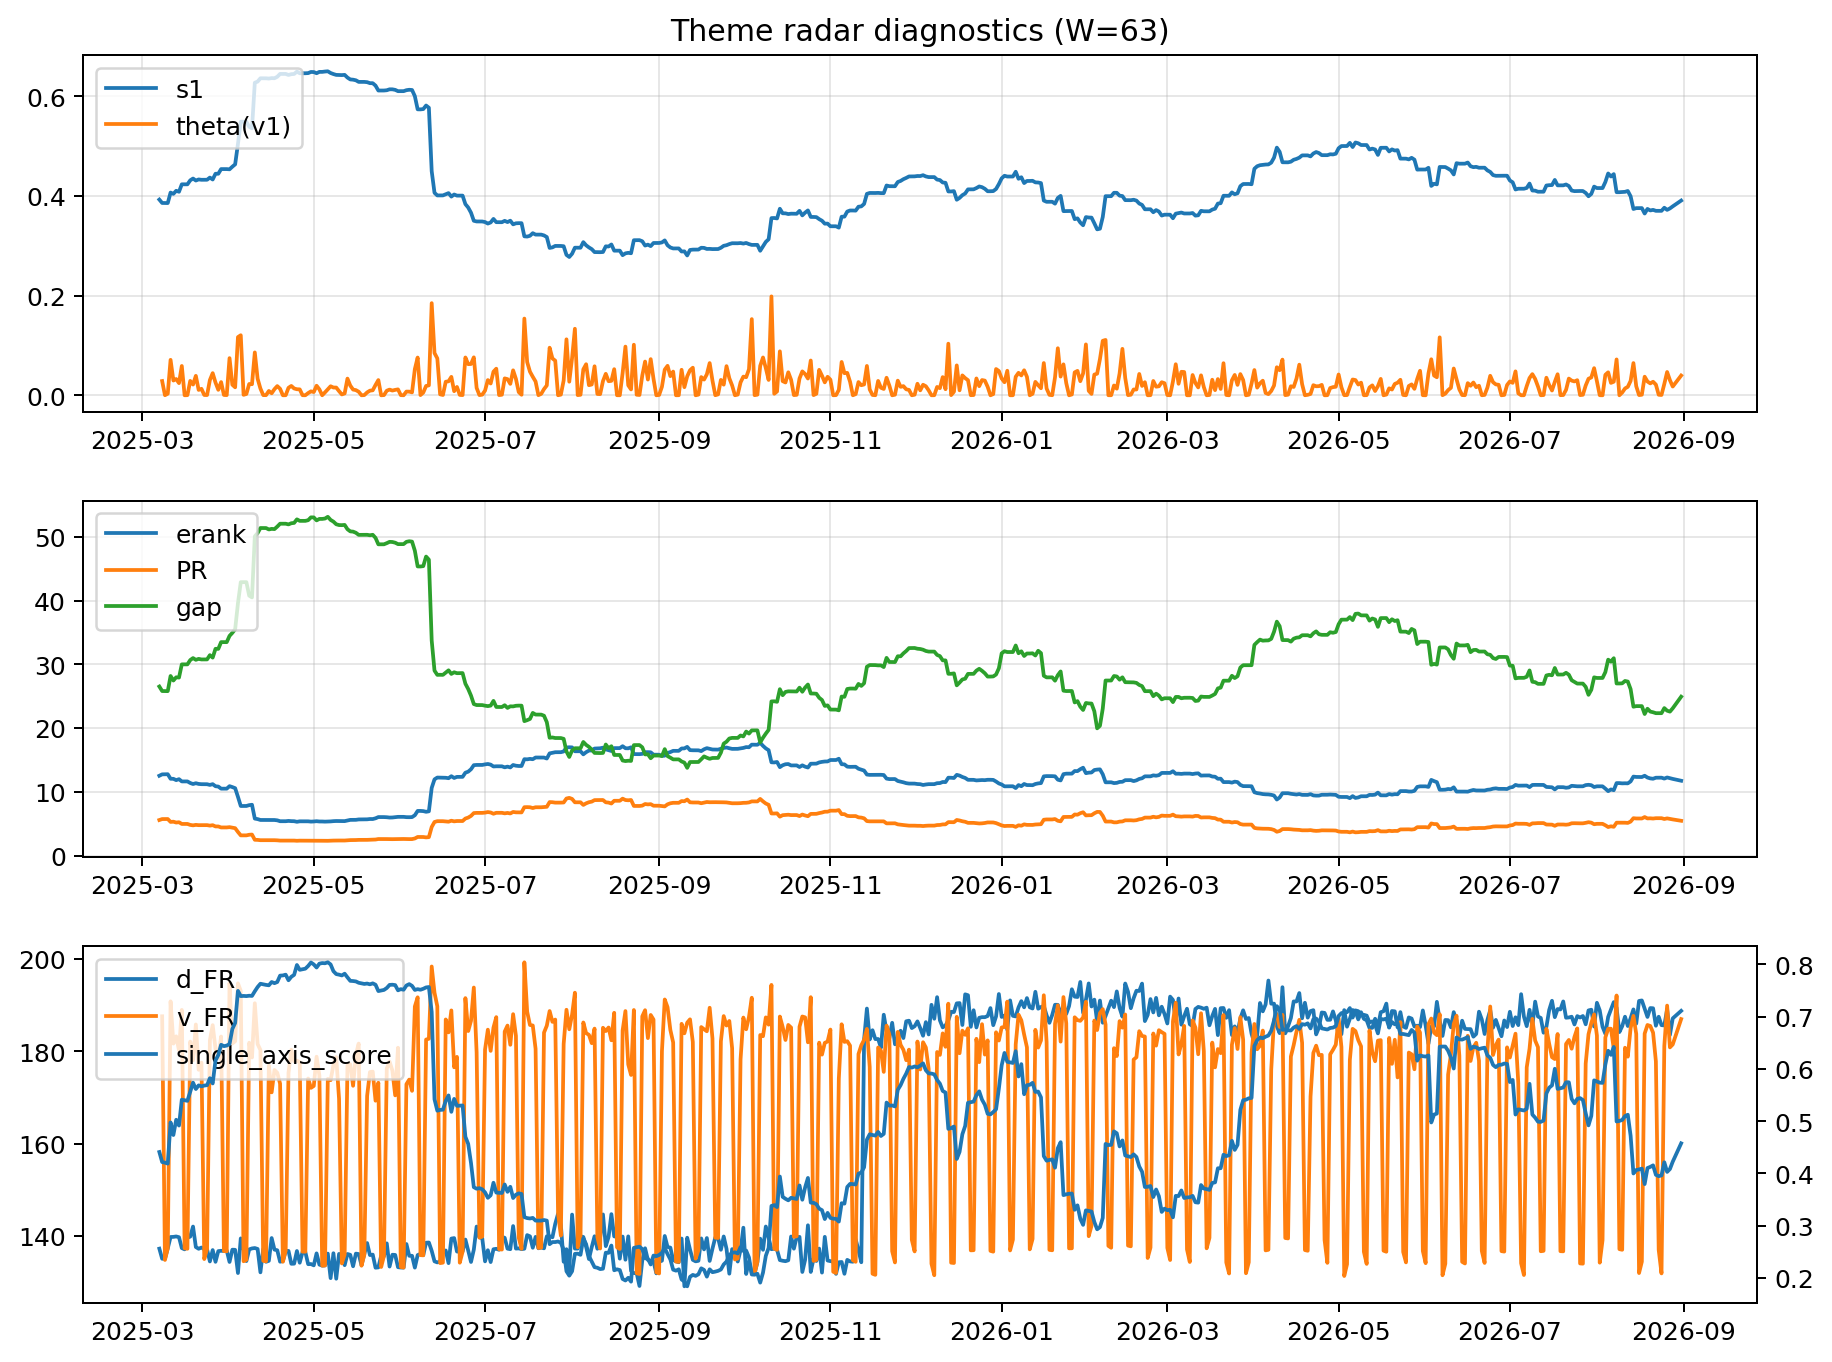
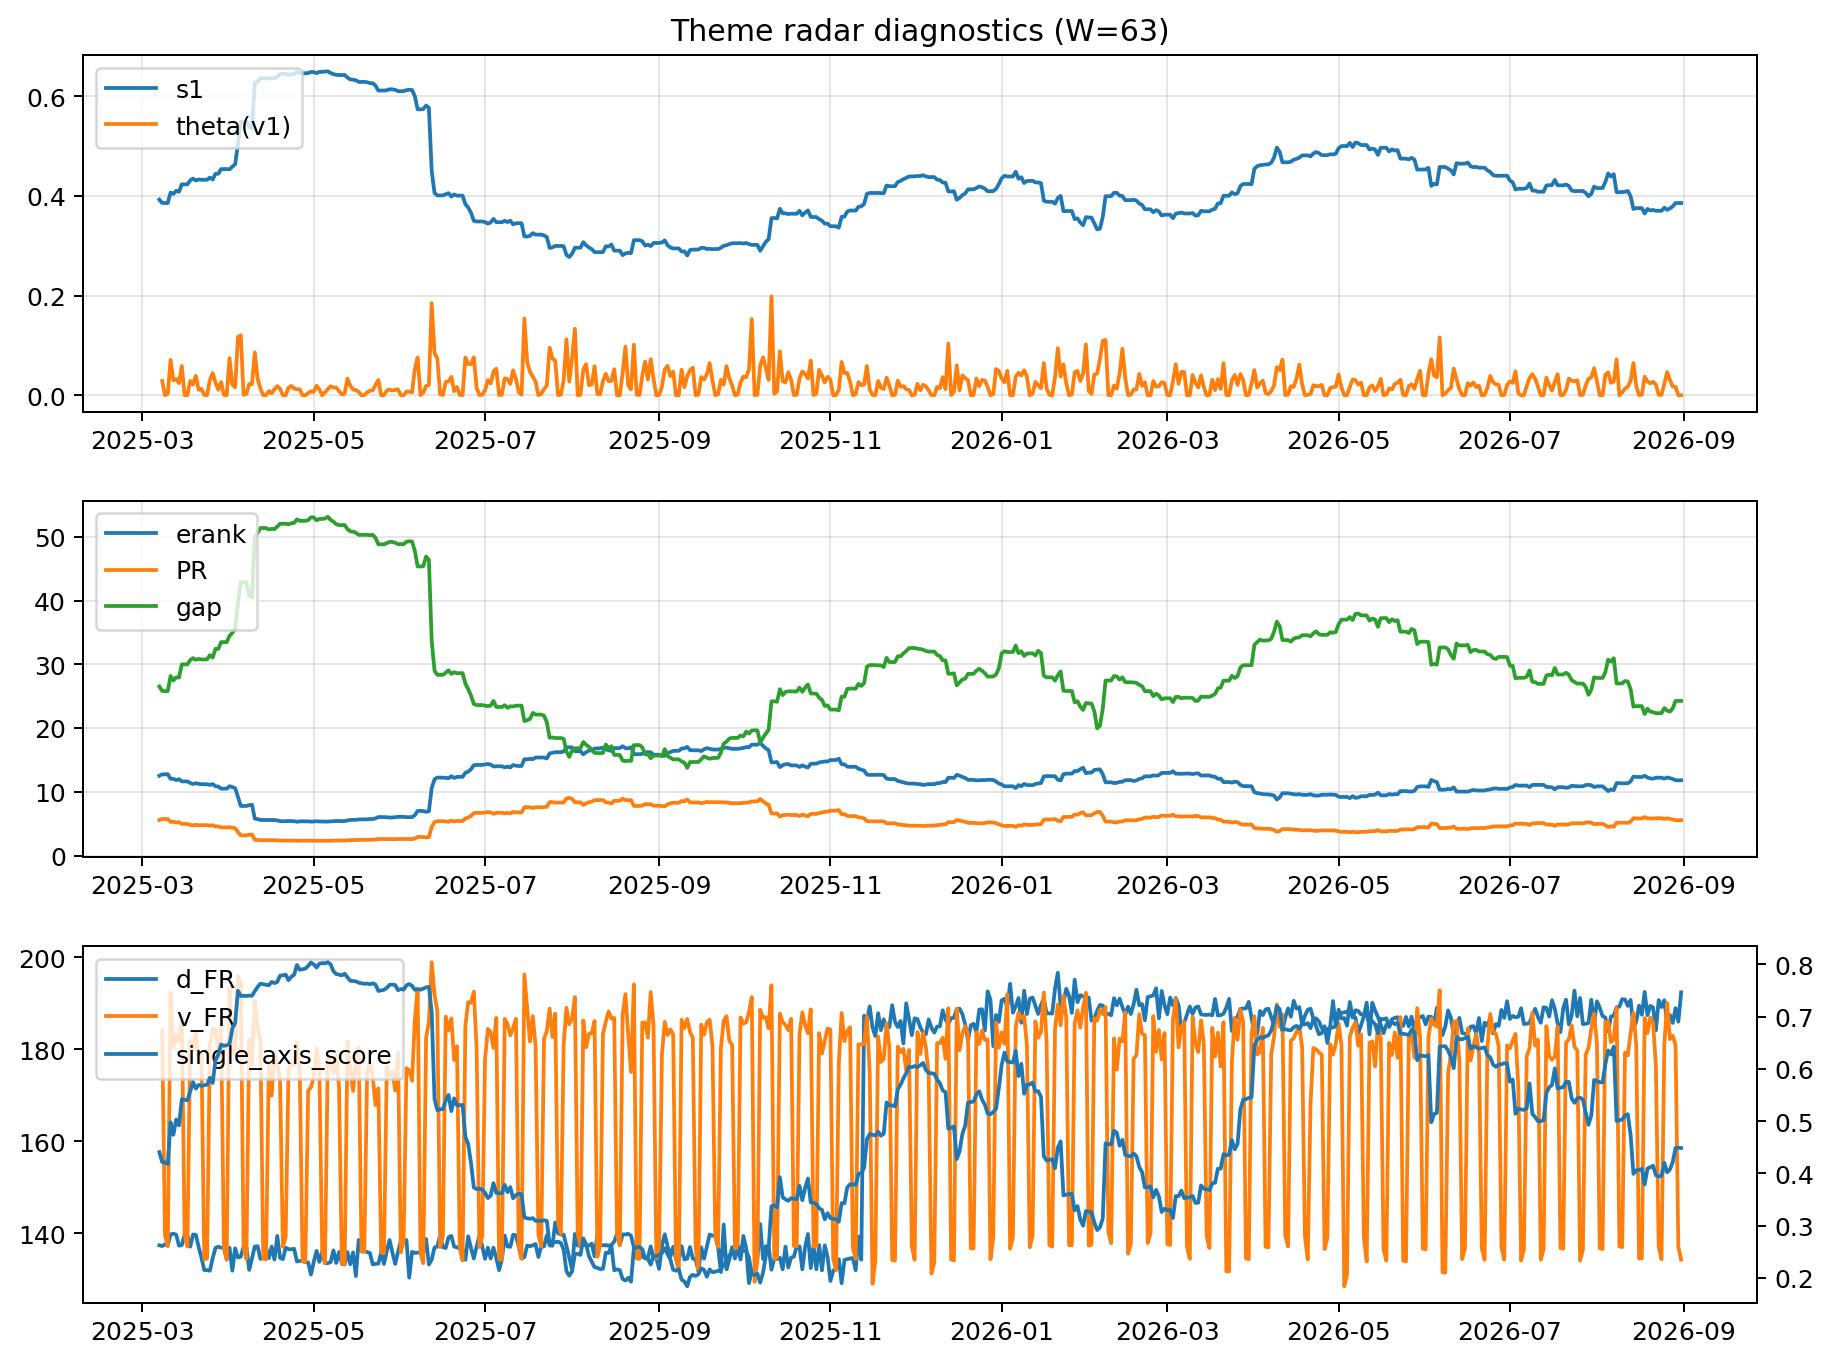
log: 2026-08-31 | sha256:ae1e0a6cc4c46359459abf19c7361717b47e3554a9b5b61b5971e099b67e79ae

diff --git a/logs/2026-08-31.md b/logs/2026-08-31.md
@@ -3,52 +3,52 @@
 ![diagnostic W63](../assets/diagnostic/2026-08-31_W63.png)
 
 ## Leaders (v1) — W=63
-- **Nuclear_Uranium** (0.0915669880013877)
-- Semis (0.0726782148635819)
-- Quantum (0.0652987303559742)
+- **Nuclear_Uranium** (0.0920083042290203)
+- Semis (0.0731990711859135)
+- Quantum (0.0657645347162383)
 
 ## Challengers — W=63
-**v2:** Rates (0.0912494723567492), Genomics_Bio (0.0861512032683912), Crypto (0.0776576607510946)
-**v3:** Software_Cloud (0.0858957663465356), Metals (0.0737609951410626), MegaCap_AI (0.0631540094717166)
+**v2:** Rates (0.0914952646134421), Genomics_Bio (0.0860548216627982), Crypto (0.0764762225770807)
+**v3:** Software_Cloud (0.0854221091099997), Metals (0.082598362277212), Crypto (0.061767036652761)
 
 ## Migration (20D slope) — W=63
 **Top risers:**
-- axis_Space: 0.0004354147069329
-- axis_Quantum: 0.0003459923382278
-- axis_Nuclear_Uranium: 0.0002556697011535
-- axis_Drones_Autonomy: 0.0001460399194038
-- axis_Clean_Broad: 0.00012018008767
-- axis_Genomics_Bio: 8.710992650387889e-05
-- axis_Sector_Utilities: 8.132626261798411e-05
-- axis_Semis: 7.934694057191778e-05
-- axis_DataCenter_Infra: 7.775850328952567e-05
-- axis_USD: 7.347507798031183e-05
+- axis_Space: 0.0003917934178691
+- axis_Quantum: 0.0002131773615159
+- axis_Nuclear_Uranium: 0.0001937125791844
+- axis_Genomics_Bio: 0.0001674149902404
+- axis_Drones_Autonomy: 0.0001582842165736
+- axis_Commodities: 0.0001306094942054
+- axis_Software_Cloud: 8.627106344264448e-05
+- axis_Sector_Utilities: 8.46137695465281e-05
+- axis_Clean_Broad: 7.948736483458348e-05
+- axis_USD: 5.7936365890880015e-05
 
 **Top fallers:**
-- axis_Miners: -8.138402440969775e-05
-- axis_Sector_Comm: -8.195941451351942e-05
-- axis_Cyber: -0.0001032939993248
-- axis_Credit: -0.0001046109959991
-- axis_Sector_Materials: -0.0001094988919404
-- axis_Sector_ConsDisc: -0.0001325442394845
-- axis_MegaCap_AI: -0.0001607578332309
-- axis_Metals: -0.000208349265556
-- axis_Rates: -0.0003228118657637
-- axis_Crypto: -0.0004527047458344
+- axis_Critical_Minerals: -6.53393169148657e-05
+- axis_Credit: -7.071107185655809e-05
+- axis_Sector_Materials: -7.151978609636588e-05
+- axis_Sector_ConsDisc: -8.703468385087363e-05
+- axis_Miners: -9.116111755251224e-05
+- axis_MegaCap_AI: -0.0001154630083584
+- axis_Sector_Health: -0.0001314325894868
+- axis_Metals: -0.0001323800938479
+- axis_Rates: -0.0001470955048142
+- axis_Crypto: -0.0004573951040281
 
 ## Risk line (W=63)
-- s1: 0.3906032455090481
-- theta_v1: 0.0396583331728902
-- v_FR: 186.9499502398192
-- single_axis_score: 0.4576709796672828
+- s1: 0.3856409662229495
+- theta_v1: 0.0001105688382129
+- v_FR: 134.30512442049664
+- single_axis_score: 0.4486187845303867
 
 ## Interpretation
 **Regime:** `theme_migration`
 
-- Action: Tomorrow watchlist: Space, Quantum, Nuclear_Uranium, Drones_Autonomy, Clean_Broad + v2_top1=Rates
+- Action: Tomorrow watchlist: Space, Quantum, Nuclear_Uranium, Genomics_Bio, Drones_Autonomy + v2_top1=Rates
 - Action: Hedge note: normal correlation stability.
 
-- Percentiles (W=63 history): vfr_pct=0.87, theta_pct=0.79, s1_pct=0.39, score_pct=0.42.
+- Percentiles (W=63 history): vfr_pct=0.06, theta_pct=0.07, s1_pct=0.38, score_pct=0.41.
 
 ---
[2 lines of base64/hex data omitted]
